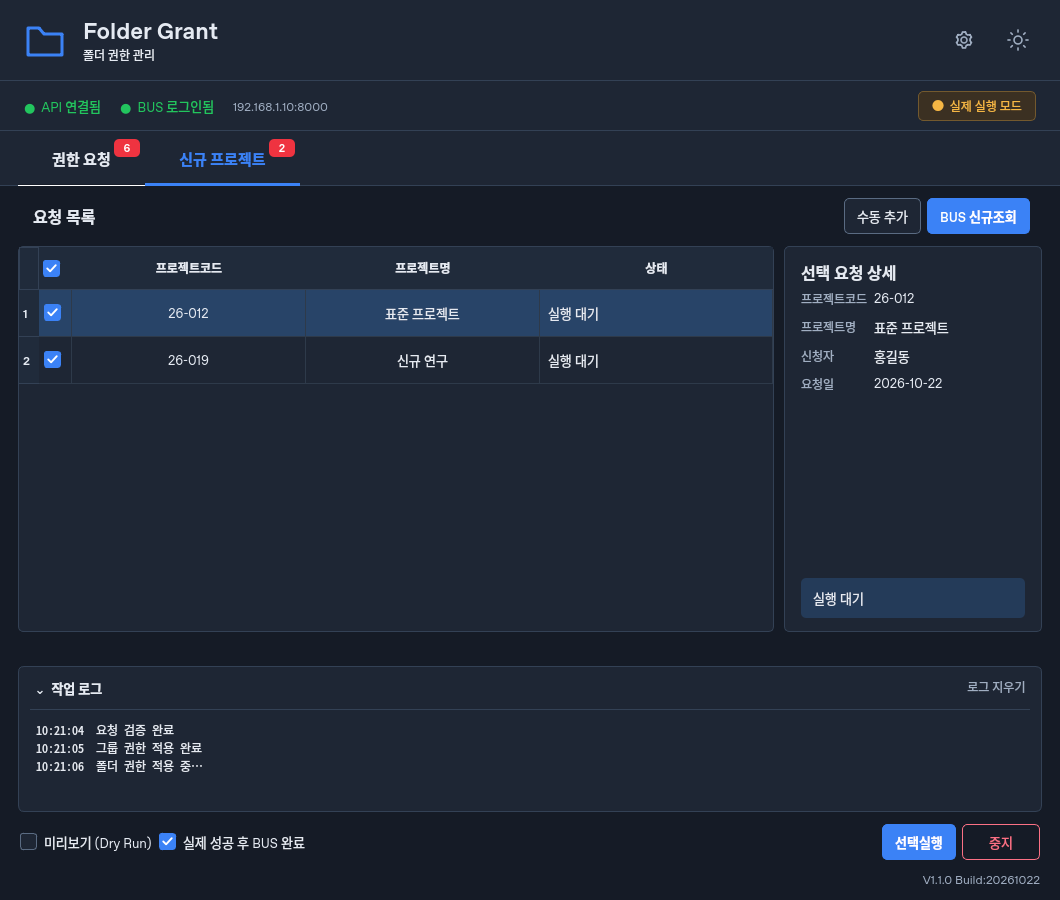
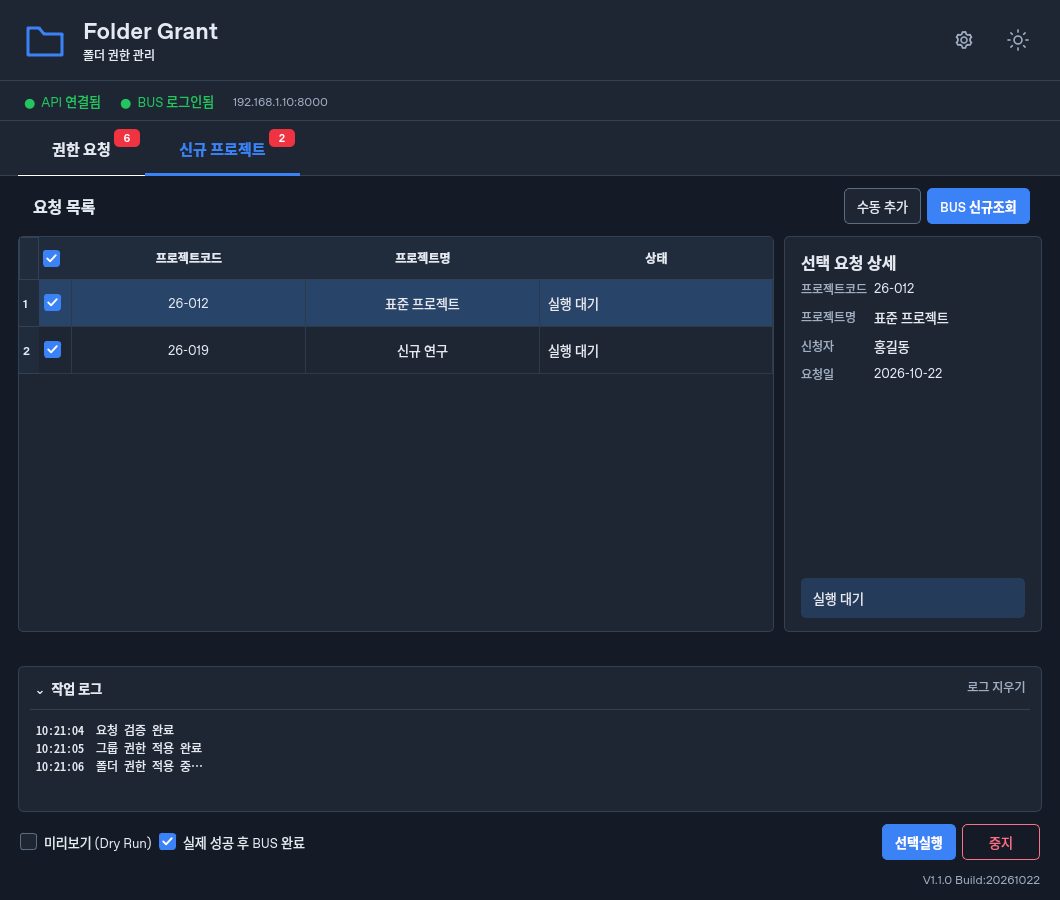
Remove execution mode indicator from connection strip

Changed region(s): [[0.0311, 0.1867, 0.9962, 0.4356], [0.0311, 0.0933, 0.3113, 0.2178], [0.8406, 0.0933, 0.9962, 0.1556]]

diff --git a/Client/tests/test_ui_design.py b/Client/tests/test_ui_design.py
@@ -66,11 +66,12 @@ class DesignTests(unittest.TestCase):
     def test_connection_strip_does_not_invent_live_connectivity_or_executor_mode(self):
         w = self.window
         self.assertIn('미확인',w.api_status_label.text())
-        self.assertIn('미확인',w.execution_mode_label.text())
+        self.assertFalse(hasattr(w,'execution_mode_label'))
+        self.assertIsNone(w._executor_mode)
         w.current_row = self.fixture.row()
         w._on_api_progress(dict(job_id='J',status='running',executor_mode='mock',steps=[]))
         self.assertIn('연결됨',w.api_status_label.text())
-        self.assertIn('모의',w.execution_mode_label.text())
+        self.assertEqual(w._executor_mode,'mock')
 
     def test_both_palettes_and_log_collapse_preserve_state(self):
         w = self.window
@@ -154,7 +155,7 @@ class DesignTests(unittest.TestCase):
         viewer = self.m.NewItemsViewer(w)
         viewer.set_data(['프로젝트코드','프로젝트명'],[['26-012','Test']])
         viewer._on_project_result(0,dict(status='succeeded',executor_mode='powershell'))
-        self.assertIn('실제',w.execution_mode_label.text())
+        self.assertEqual(w._executor_mode,'powershell')
         self.assertIn('연결됨',w.api_status_label.text())
         viewer.close()
 

diff --git a/Client/README.md b/Client/README.md
@@ -46,7 +46,7 @@ python ".\Folder Grant API Client.pyw"
 
 ### v1.1 화면 구성
 
-- 상단에 API·BUS 연결 상태, 서버 주소, 마지막으로 서버에서 확인한 실행 모드를 표시합니다. 연결이나 모드가 아직 확인되지 않았으면 미확인으로 표시합니다.
+- 상단에 API·BUS 연결 상태와 서버 주소를 표시합니다. 연결이 아직 확인되지 않았으면 미확인으로 표시합니다. 실행 모드는 내부 결과 검증에 사용하고 상단에는 표시하지 않습니다.
 - **권한 요청 / 신규 프로젝트** 탭으로 이동합니다. 신규 프로젝트의 생성·중지 기능도 같은 창 안에서 사용합니다.
 - 요청 목록 오른쪽에 선택한 요청의 사번·프로젝트·폴더·Role, 실제 서버 단계 상태 및 결과를 표시합니다.
 - 하단의 **미리보기**는 기존 Dry Run, **선택 실행**은 실제 Job 등록입니다. **BUS 완료 재확인**은 서버의 최신 성공 여부를 확인한 뒤 BUS 완료만 처리합니다.
